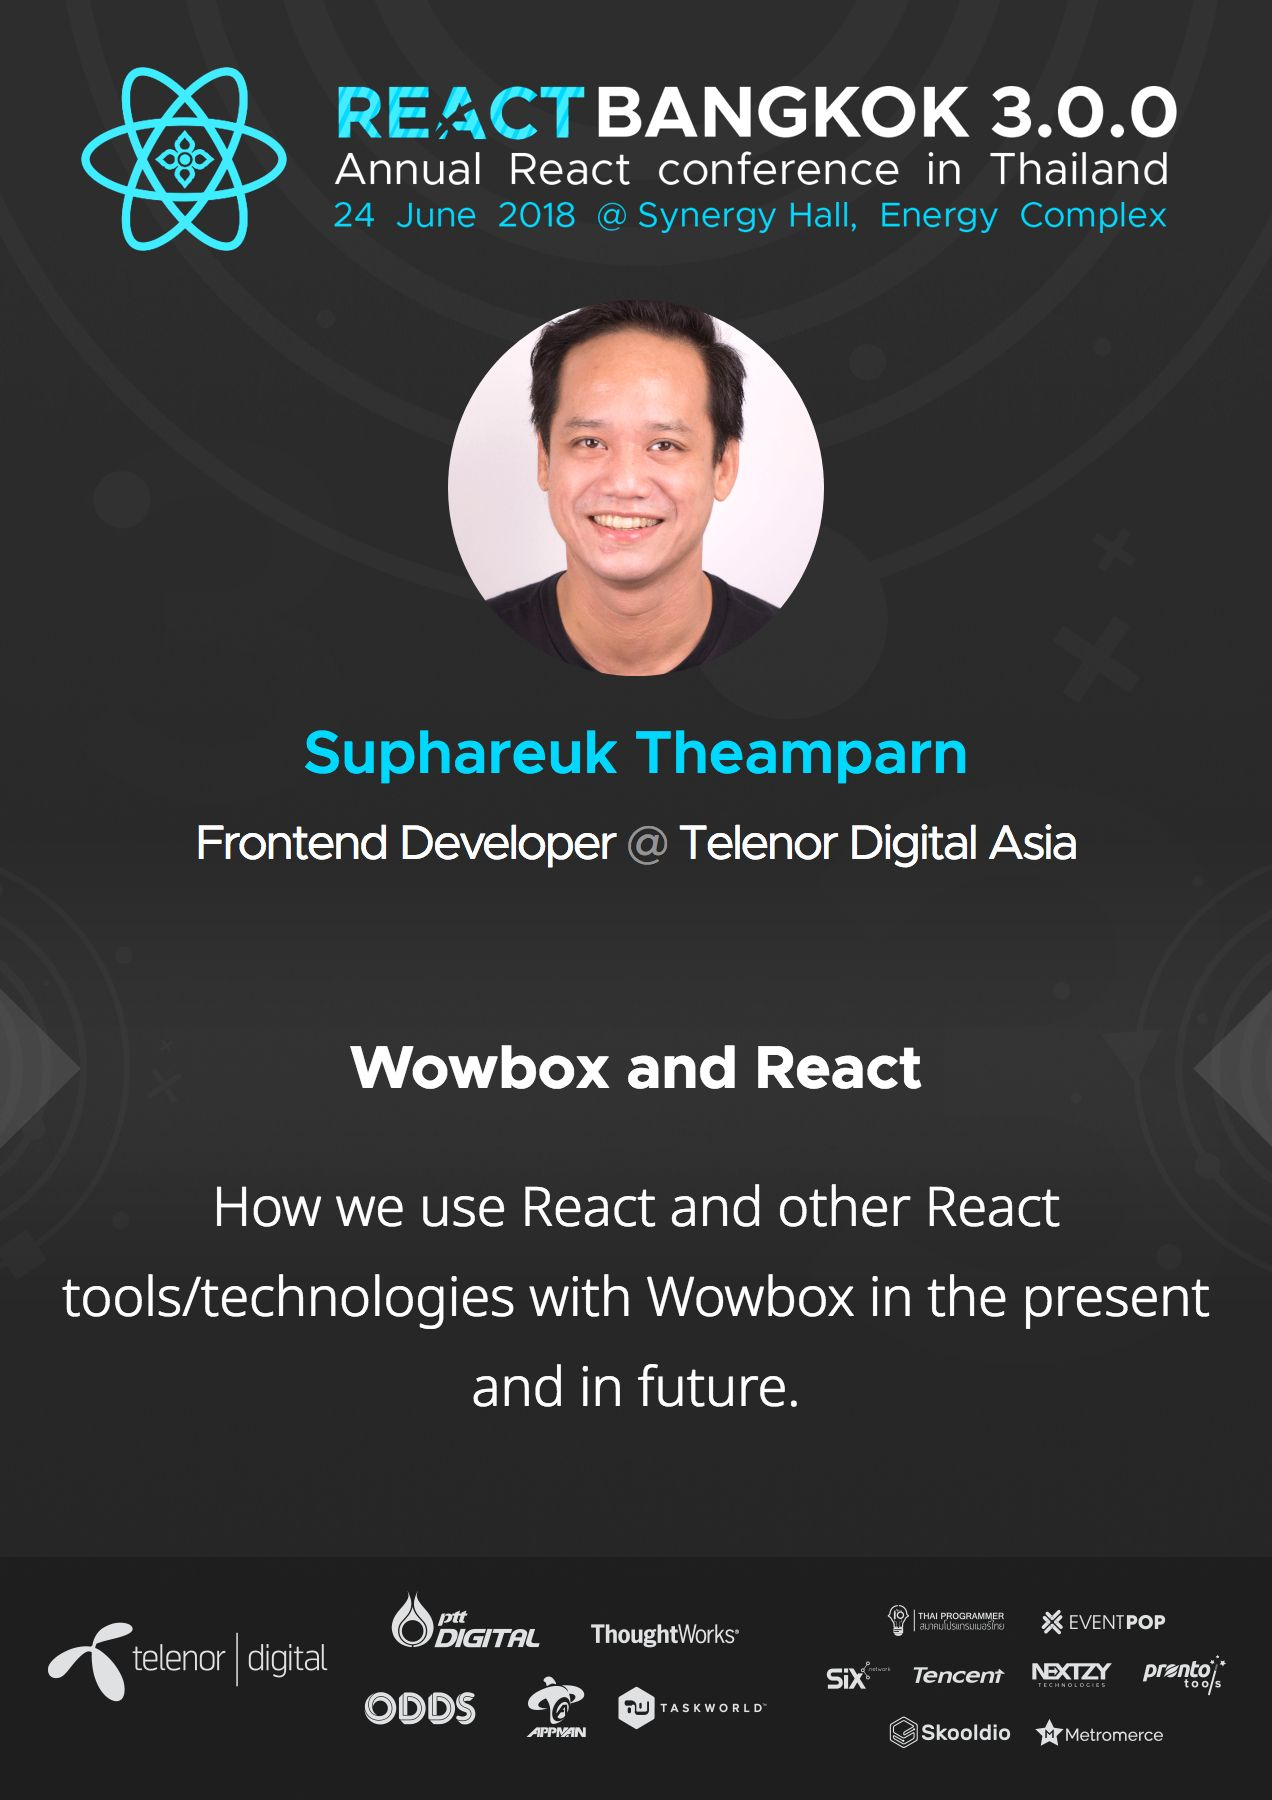
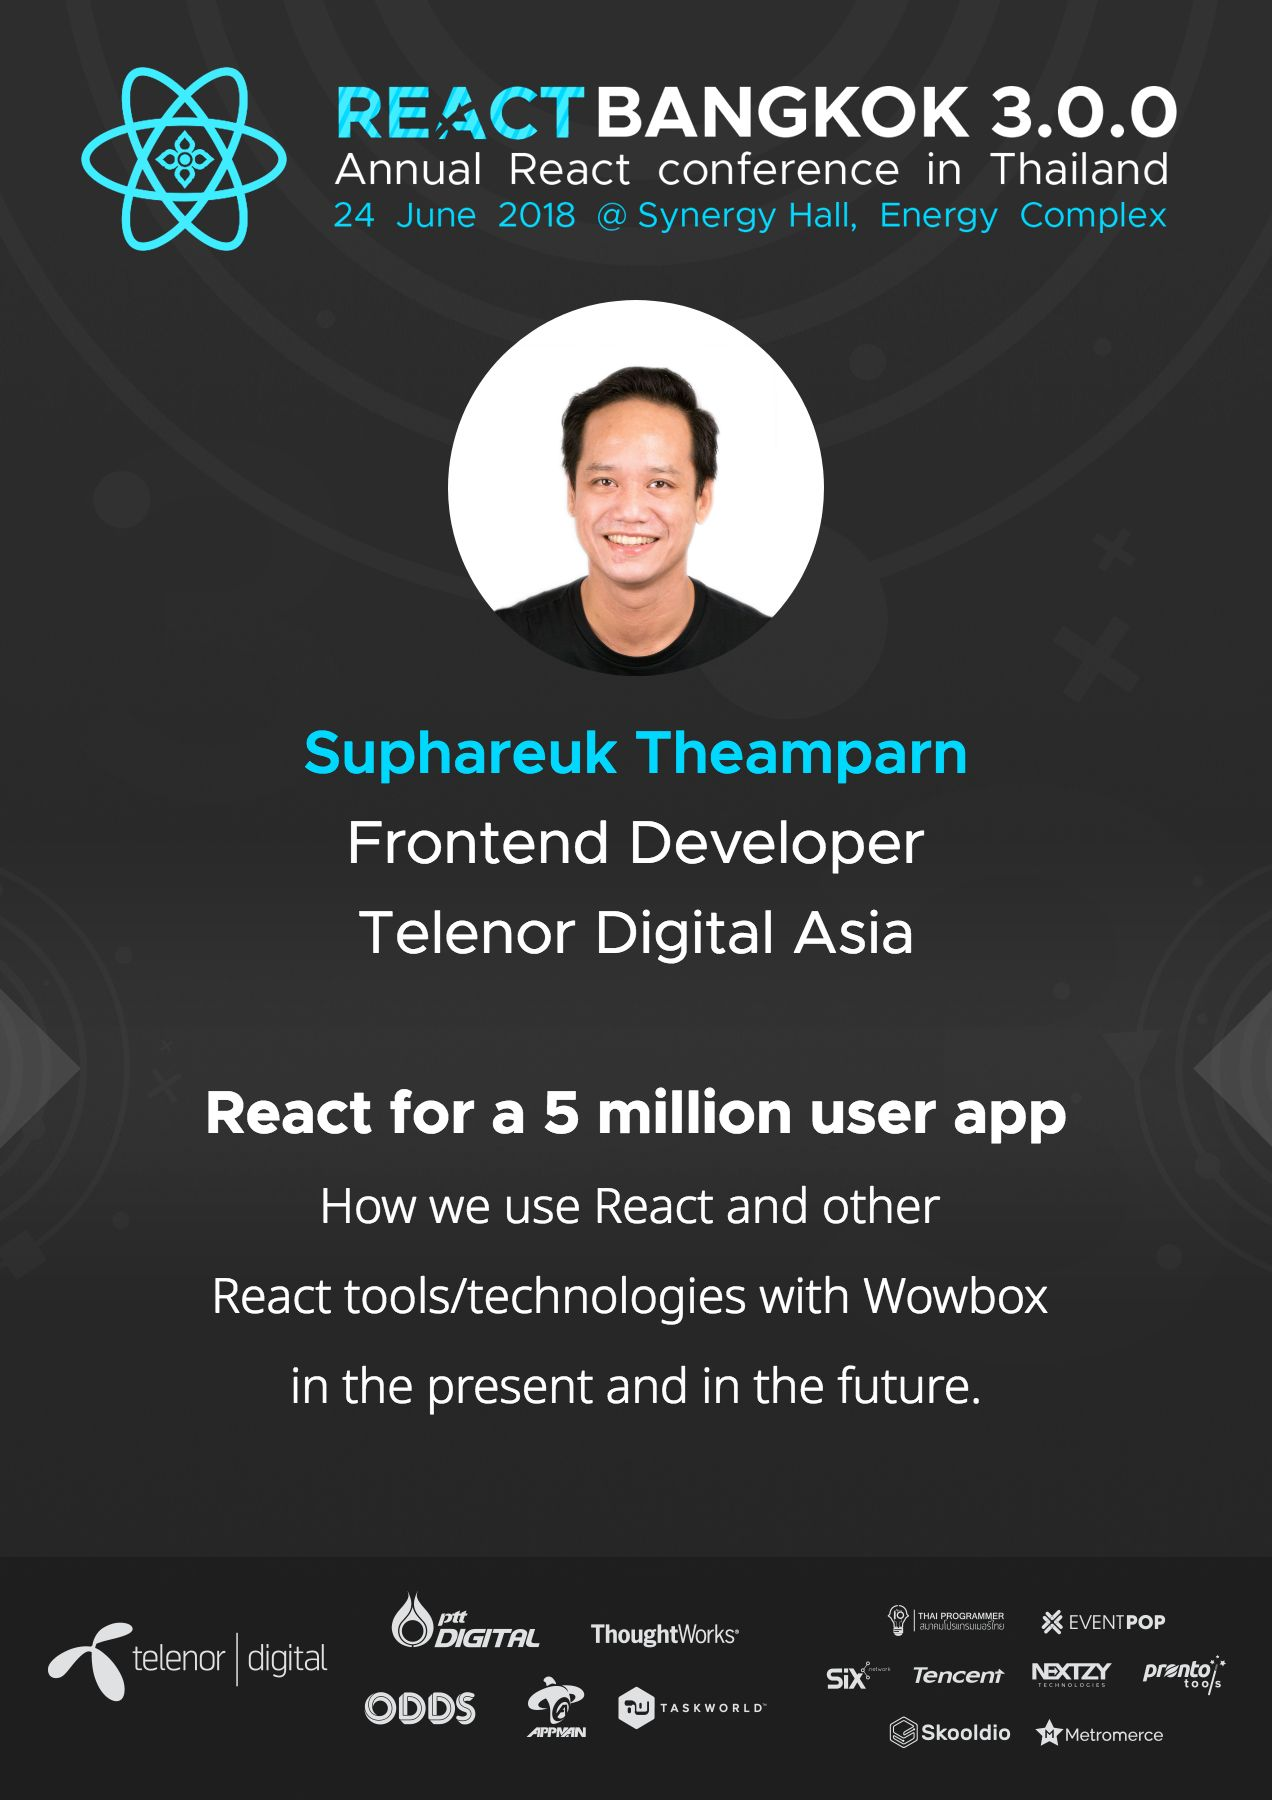
Update suphareuk Theamparn poster

Changed region(s): [[0.0613, 0.56, 0.9505, 0.7778], [0.1533, 0.4356, 0.8585, 0.5289], [0.3373, 0.1556, 0.6132, 0.3733]]

diff --git a/src/index.js b/src/index.js
@@ -274,18 +274,21 @@ export const speakers = {
     <Speaker
       name="Suphareuk Theamparn"
       position={
-        <div style={{ fontSize: '80%' }}>
-          <Text tight>
-            Frontend Developer<At />Telenor Digital Asia
+        <Text>
+          <Text>
+            Frontend Developer
           </Text>
-        </div>
+          <br />
+          <span style={{fontSize: 60}}>Telenor Digital Asia</span>
+        </Text>
       }
-      title={<div>Wowbox and React</div>}
+      title={<div><br/>React for a 5 million user app</div>}
       // descriptionScale={4 / 5}
       description={
-        <div>
-          How we use React and other React tools/technologies with Wowbox in the
-          present and in future.
+        <div style={{fontSize:48}}>
+          How we use React and other <br />
+          React tools/technologies with Wowbox <br />
+          <Text>in the present and in the future.</Text>
         </div>
       }
       photo={require('./photo/toon.jpg')}
